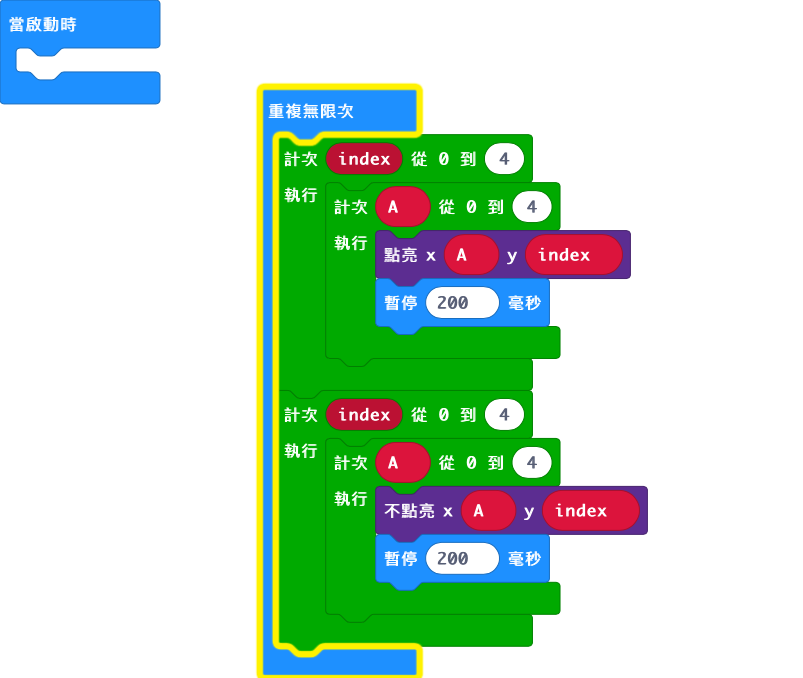
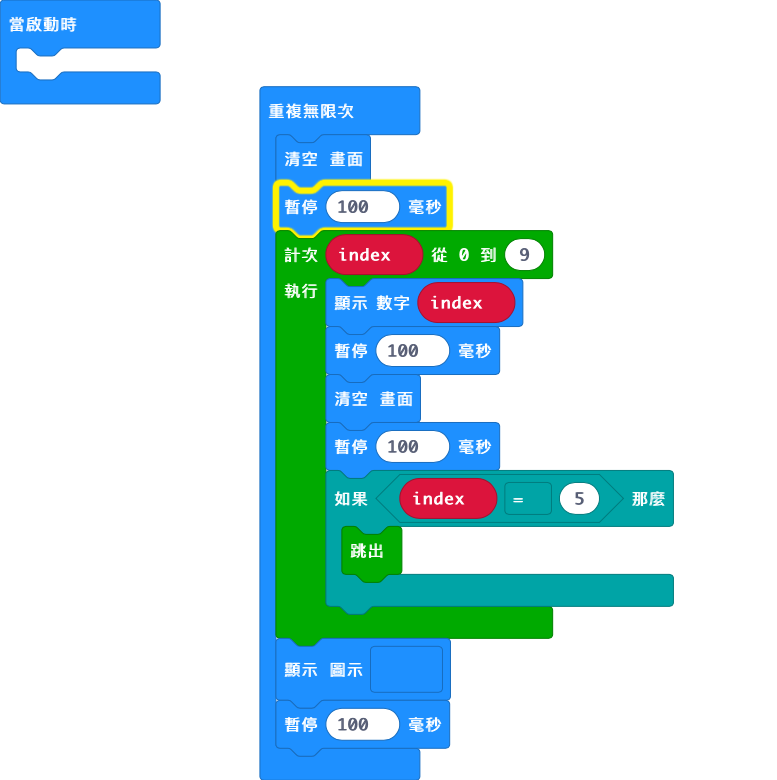
Update main.blocks, main.ts

Changed region(s): [[0.3089, 0.0929, 0.8649, 1.0], [0.0, 0.0, 0.2162, 0.1549]]

diff --git a/main.ts b/main.ts
@@ -1,14 +1,15 @@
 basic.forever(function () {
-    for (let index = 0; index <= 4; index++) {
-        for (let A = 0; A <= 4; A++) {
-            led.plot(A, index)
-            basic.pause(200)
+    basic.clearScreen()
+    basic.pause(100)
+    for (let index = 0; index <= 9; index++) {
+        basic.showNumber(index)
+        basic.pause(100)
+        basic.clearScreen()
+        basic.pause(100)
+        if (index == 5) {
+            break;
         }
     }
-    for (let index = 0; index <= 4; index++) {
-        for (let A = 0; A <= 4; A++) {
-            led.unplot(A, index)
-            basic.pause(200)
-        }
-    }
+    basic.showIcon(IconNames.Heart)
+    basic.pause(100)
 })
